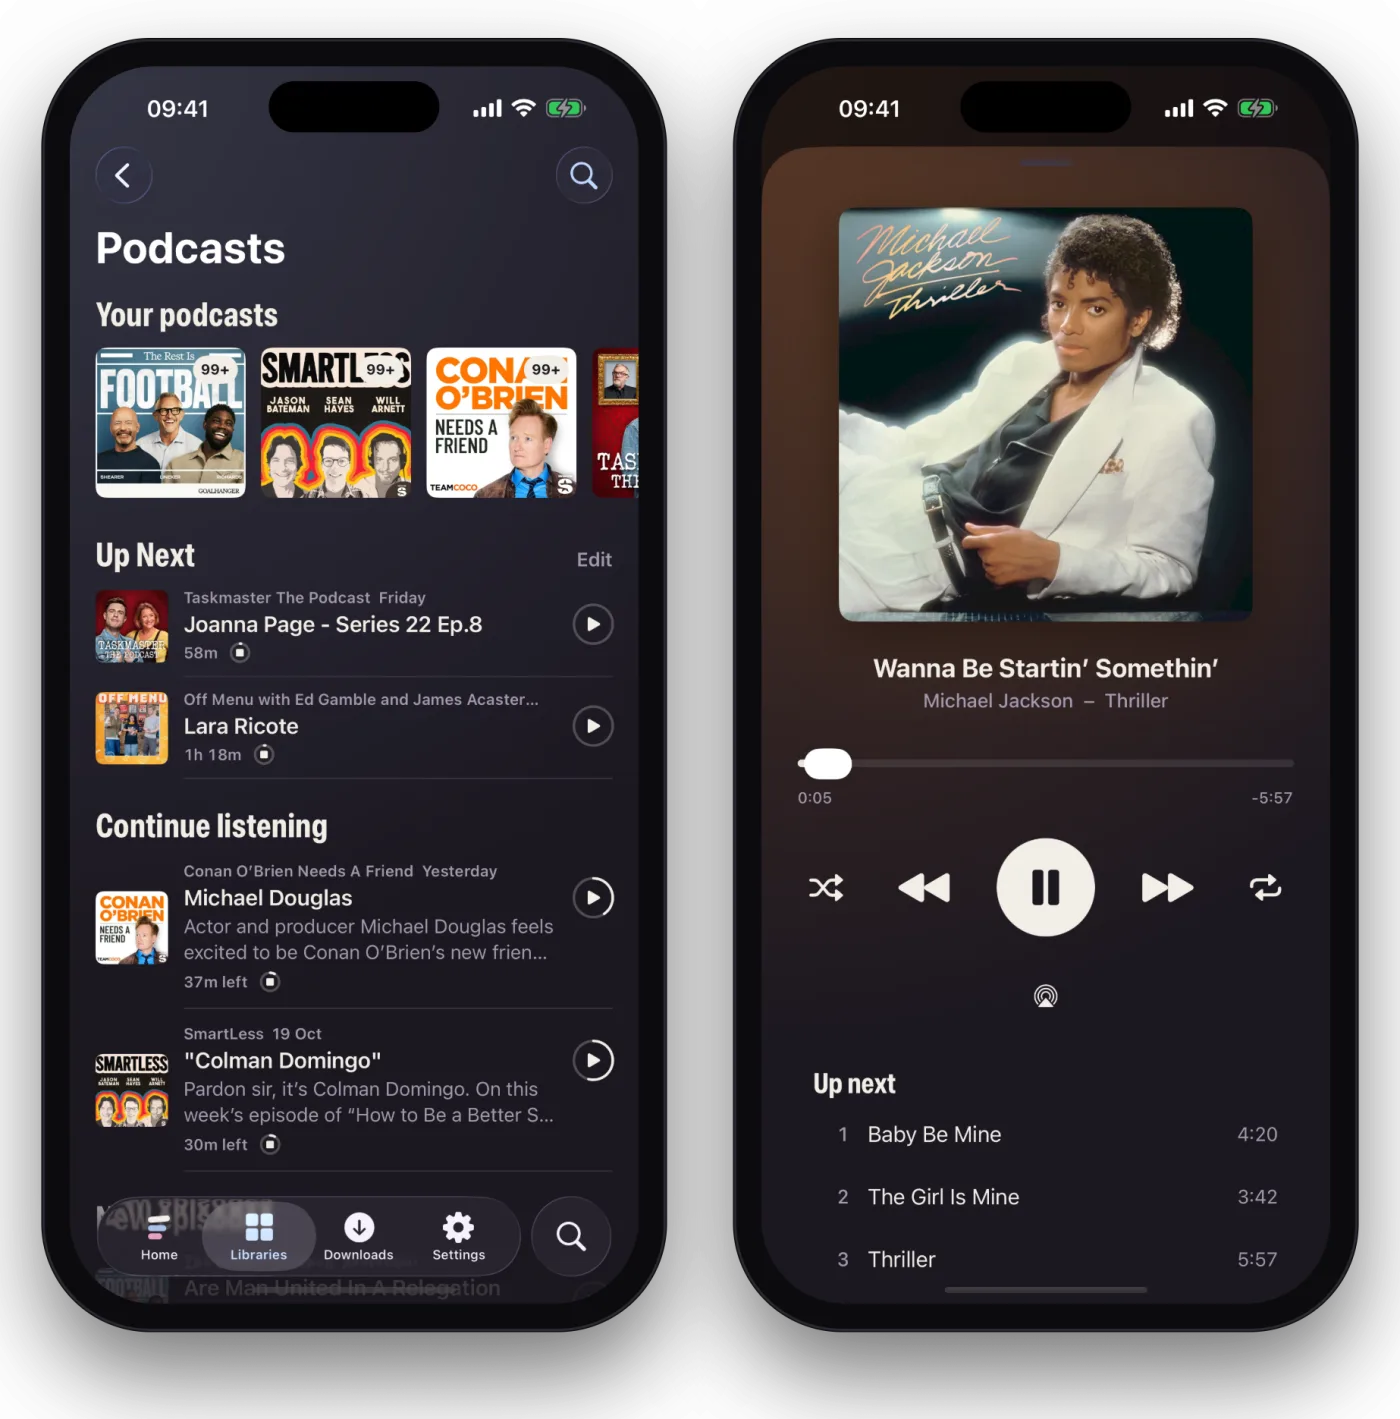
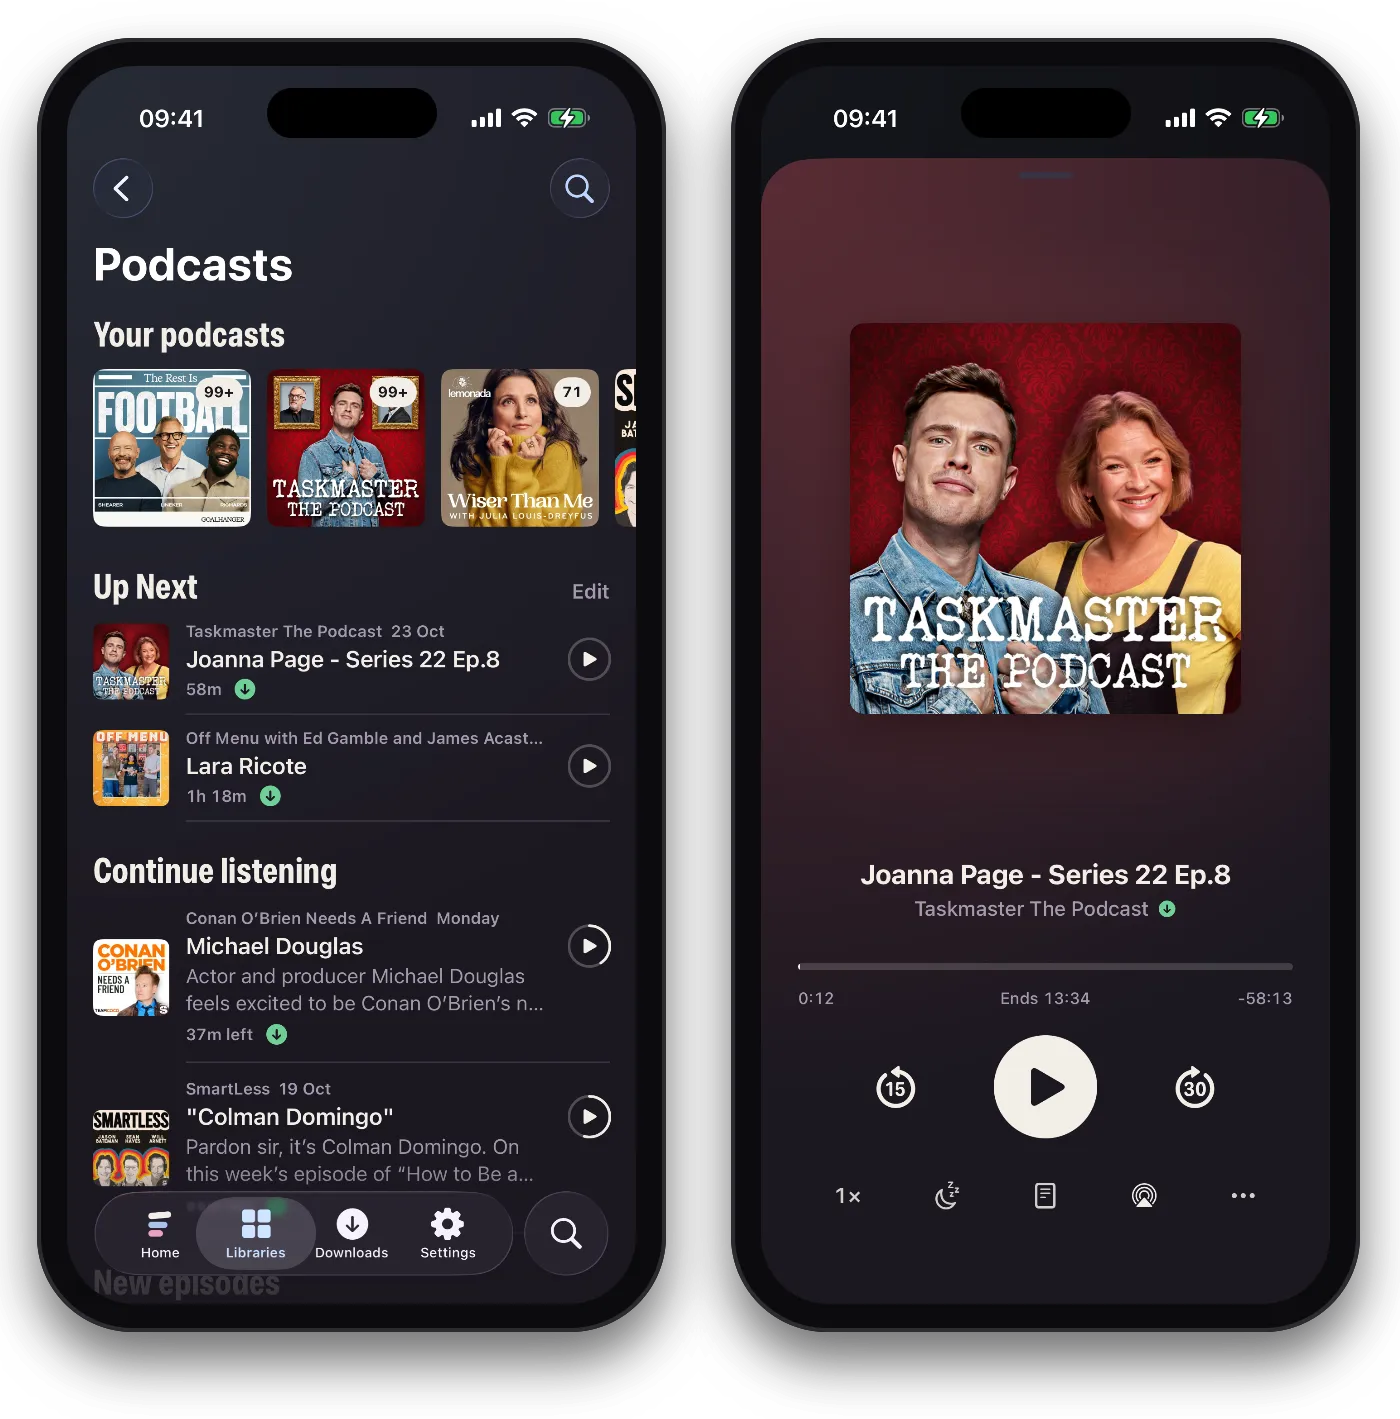
guide: seventeen screenshots retaken from the current apps
Claude-Session: https://claude.ai/code/session_014wqedgp7jjKZkQdPDwN33C

diff --git a/site/guide/first-setup.html b/site/guide/first-setup.html
@@ -153,7 +153,7 @@
 <p>Opened without the link, the page asks for the code and says where it is for your kind of install. Pasting the whole link into the <strong>Setup code</strong> box works too.</p>
 <p>Then choose the <strong>admin PIN</strong> (4 to 8 digits, typed twice). It protects the server&#39;s settings: watching doesn&#39;t need it; changing settings does. Choose <strong>Set up Flexarr</strong>. This browser becomes the server&#39;s owner and is signed in. That&#39;s the whole sign-up.</p>
 <p>If you close the page before choosing <strong>Set up Flexarr</strong>, nothing has happened yet, and the same code still works. The code stops working once the server is set up, and after ten wrong tries it&#39;s replaced with a new one (the log says so).</p>
-<figure><img src="/guide/img/welcome.webp" alt="The welcome panel on a new server, asking for its setup code beside a Set up Flexarr button" data-caption="What a new server shows a browser on your home network" loading="lazy" decoding="async"></figure>
+<figure><img src="/guide/img/welcome.webp" alt="The welcome panel on a new server, asking for its setup code and a PIN, typed twice, beside Set up Flexarr" data-caption="What a new server shows a browser on your home network" loading="lazy" decoding="async"></figure>
 <p>A few things to know:</p>
 <ul>
 <li><strong>It only works once.</strong> As soon as anyone signs in, setup closes for good. Phones, tablets and TVs then connect with a code that you allow from your phone or this browser (see <a href="/guide/connect-devices">Connect your devices</a>). Other browsers sign in with the <a href="#the-api-key">API key</a>.</li>
@@ -177,7 +177,7 @@
 <p>You&#39;re signed in as the server&#39;s <strong>main profile</strong>, the one that can change settings.</p>
 <h2 id="add-your-libraries"><a class="anchor" href="#add-your-libraries" aria-hidden="true" tabindex="-1">#</a>Add your libraries</h2>
 <p>A library is a set of folders holding one kind of media. Go to <strong>Settings › Libraries</strong> and choose <strong>Add library</strong>.</p>
-<figure><img src="/guide/img/libraries.webp" alt="Settings › Libraries with four libraries, each with its folder, and the podcast episodes folder below" data-caption="Settings › Libraries" loading="lazy" decoding="async"></figure>
+<figure><img src="/guide/img/libraries.webp" alt="Settings › Libraries listing each library with its folder and a Fine for kids switch" data-caption="Settings › Libraries" loading="lazy" decoding="async"></figure>
 <ol>
 <li>Pick the <strong>Kind</strong>: <strong>Films</strong>, <strong>TV shows</strong>, <strong>Music</strong>, <strong>Home videos</strong> (videos of your own, arranged by folder; see <a href="/guide/without-arrs#home-videos">Without Sonarr and Radarr</a>) or, in the next release, <strong>Audiobooks</strong> (see <a href="/guide/audiobooks">Audiobooks</a>).</li>
 <li>Give it a <strong>Name</strong> if you like. Left blank, it&#39;s named after its kind. You can rename it later.</li>

diff --git a/site/guide/subtitles-and-skipping.html b/site/guide/subtitles-and-skipping.html
@@ -171,7 +171,7 @@ Heat (1995).en.forced.srt
 <h3 id="timing"><a class="anchor" href="#timing" aria-hidden="true" tabindex="-1">#</a>Timing</h3>
 <p>If subtitles come too early or too late, choose <strong>Timing</strong> in the player&#39;s subtitles menu and move them to match the speech: a quarter of a second at a time on the web, or from half a second to two seconds on Apple TV, iPhone and iPad. Each film or episode remembers its own timing.</p>
 <p>On Apple devices, <strong>Timing</strong> isn&#39;t offered for a download, for subtitles burned into the picture, or when <strong>Play files directly</strong> is on and the file plays as it is. For the last of these, turning <strong>Play files directly</strong> off brings <strong>Timing</strong> back.</p>
-<figure><img src="/guide/img/tv-player.webp" alt="The Apple TV player paused, with skip buttons, the progress bar, and subtitle and audio buttons at the bottom right" data-caption="The Apple TV player, with subtitles and audio at the bottom right" loading="lazy" decoding="async" class="device"></figure>
+<figure><img src="/guide/img/tv-player.webp" alt="The Apple TV player paused, with the Audio, subtitles, sleep timer and speakers buttons above the progress bar" data-caption="The Apple TV player, with subtitles and audio at the bottom right" loading="lazy" decoding="async" class="device"></figure>
 <h2 id="skipping-intros-recaps-and-credits"><a class="anchor" href="#skipping-intros-recaps-and-credits" aria-hidden="true" tabindex="-1">#</a>Skipping intros, recaps and credits</h2>
 <h3 id="how-flexarr-finds-them"><a class="anchor" href="#how-flexarr-finds-them" aria-hidden="true" tabindex="-1">#</a>How Flexarr finds them</h3>
 <p>Flexarr looks for intros, recaps and credits in two ways:</p>

diff --git a/site/guide/music.html b/site/guide/music.html
@@ -147,7 +147,7 @@
 <h2 id="now-playing-on-apple-tv"><a class="anchor" href="#now-playing-on-apple-tv" aria-hidden="true" tabindex="-1">#</a>Now Playing on Apple TV</h2>
 <p>While music plays, a <strong>Now Playing</strong> entry appears in the sidebar, with the cover, controls and the queue, and a bar along the bottom of the screen that goes away a few seconds after the music is paused. Play/pause on the remote works from anywhere in the app. <strong>Stop</strong> ends the music and takes the bar and Now Playing away until you play something else.</p>
 <p>Behind Now Playing, light in the cover&#39;s colours moves in time with the music. Turn it off with <strong>Settings › Playback › Music visualiser</strong>.</p>
-<figure><img src="/guide/img/tv-now-playing.webp" alt="Thriller playing on Apple TV, with the album art and the track list" data-caption="Music on Apple TV" loading="lazy" decoding="async" class="device"></figure>
+<figure><img src="/guide/img/tv-now-playing.webp" alt="Thriller in Now Playing on Apple TV, with the visualiser&#39;s light behind it, the controls and Up next" data-caption="Music on Apple TV" loading="lazy" decoding="async" class="device"></figure>
 <h2 id="on-iphone-and-ipad"><a class="anchor" href="#on-iphone-and-ipad" aria-hidden="true" tabindex="-1">#</a>On iPhone and iPad</h2>
 <p>A mini-player sits above the tab bar. Tap it for the full Now Playing sheet, with the cover, scrubber, controls, queue and AirPlay. The lock screen, Control Center and a paired Apple Watch control playback too.</p>
 <h2 id="playlists"><a class="anchor" href="#playlists" aria-hidden="true" tabindex="-1">#</a>Playlists</h2>

diff --git a/site/guide/downloads.html b/site/guide/downloads.html
@@ -144,7 +144,7 @@
 </ul>
 <p>Tap the button while a download is under way, or once it&#39;s here, to remove it. Downloads carry on with the app closed, and pick up where they left off if the connection drops or the phone locks.</p>
 <p>Everything you&#39;ve downloaded is in the <strong>Downloads</strong> tab, where it plays with Skip Intro and the countdown to the next episode as usual.</p>
-<figure><img src="/guide/img/phones-downloads.webp" alt="The Downloads tab on an iPhone with Ted Lasso episodes, an album and podcast episodes, beside a show page with its Download button" data-caption="Downloads on iPhone" loading="lazy" decoding="async" class="device"></figure>
+<figure><img src="/guide/img/phones-downloads.webp" alt="The Downloads tab on an iPhone with podcast episodes marked by green arrows, beside Ted Lasso&#39;s page with Resume and round buttons" data-caption="Downloads on iPhone" loading="lazy" decoding="async" class="device"></figure>
 <h2 id="what-your-server-does-first"><a class="anchor" href="#what-your-server-does-first" aria-hidden="true" tabindex="-1">#</a>What your server does first</h2>
 <p>Your server gets each download ready before it&#39;s sent, one at a time. It converts a film or episode to a size and format the phone plays, or sends it as it is when it can. It does this quietly in the background and waits while anyone is watching something that&#39;s being converted, so a download never slows someone&#39;s film down.</p>
 <p>A prepared download that isn&#39;t collected within a week is deleted from the server.</p>

diff --git a/site/guide/library-health.html b/site/guide/library-health.html
@@ -135,7 +135,7 @@
         <div class="prose">
 <p>Library health is a check-up for your films and TV. It shows what&#39;s wrong, how much space spare copies take, and a button to fix each problem, usually by asking Sonarr or Radarr to do the work.</p>
 <p>Open it in the web app from <strong>Settings › Libraries › Library health</strong>, as the main profile with settings unlocked. The <strong>Overview</strong> page in Settings links to it too.</p>
-<figure><img src="/guide/img/health.webp" alt="Library health with a score of 99, the health check and a film that only exists in standard definition" data-caption="Settings › Libraries › Library health" loading="lazy" decoding="async"></figure>
+<figure><img src="/guide/img/health.webp" alt="Library health with a score of 99, Run health check, a film that only exists in standard definition and one missing artwork" data-caption="Settings › Libraries › Library health" loading="lazy" decoding="async"></figure>
 <h2 id="the-health-score"><a class="anchor" href="#the-health-score" aria-hidden="true" tabindex="-1">#</a>The health score</h2>
 <p>At the top is a score out of 100: the share of your films and episodes with nothing wrong. Next to it is a breakdown of what&#39;s affecting the rest, such as spare copies, unreadable files or missing artwork.</p>
 <p>Groups with nothing in them are left out, and a line underneath says what&#39;s all clear (&quot;every title has a single copy&quot;, &quot;every film has an HD copy&quot;).</p>

diff --git a/site/guide/away-from-home.html b/site/guide/away-from-home.html
@@ -139,7 +139,7 @@
 <li><strong>On your iPhone or iPad</strong>, install Tailscale from the App Store and sign in with the same account. Leave it connected.</li>
 <li>Open the Flexarr app once while you&#39;re at home, so it learns the private address.</li>
 </ol>
-<figure><img src="/guide/img/access.webp" alt="Settings › Remote access with Tailscale on, the private address and its Copy button, and the people on the tailnet" data-caption="Settings › Remote access, with Tailscale on" loading="lazy" decoding="async"></figure>
+<figure><img src="/guide/img/access.webp" alt="Settings › Remote access with Tailscale on, its private address and Copy button, and People with their own Tailscale" data-caption="Settings › Remote access, with Tailscale on" loading="lazy" decoding="async"></figure>
 <p>From then on, the iPhone, iPad and Apple TV apps switch by themselves. When the home address doesn&#39;t answer, they use the Tailscale one, and they go back to the home address when you&#39;re home again. There&#39;s nothing to change in the apps.</p>
 <p>In a browser away from home, open the private address instead of the usual one.</p>
 <blockquote class="callout note"><p><strong>Note</strong> The Mac app (coming to the Mac App Store) can&#39;t turn Tailscale on. Install Tailscale on that Mac and sign in, and <strong>Settings › Remote access</strong> shows the Mac&#39;s own Tailscale address to use.</p>

diff --git a/site/guide/logs-and-diagnostics.html b/site/guide/logs-and-diagnostics.html
@@ -142,7 +142,7 @@
 <li><strong>Live</strong>: turn it on to watch new entries arrive as they happen. It&#39;s handy while you reproduce a problem.</li>
 </ul>
 <p><strong>Load older</strong> at the bottom goes further back.</p>
-<figure><img src="/guide/img/logs.webp" alt="The Logs page with error reports switched on, the level, area and search filters, and recent log lines" data-caption="Settings › Logs" loading="lazy" decoding="async"></figure>
+<figure><img src="/guide/img/logs.webp" alt="The Logs page with error reports switched on, and the log filtered to the Playback area" data-caption="Settings › Logs" loading="lazy" decoding="async"></figure>
 <h2 id="following-one-playback"><a class="anchor" href="#following-one-playback" aria-hidden="true" tabindex="-1">#</a>Following one playback</h2>
 <p>Every time something starts playing it gets a short id, such as <code>3f9a1c07</code>. The server&#39;s lines about that playback show it as <code>#3f9a1c07</code>, and the Apple TV, iPhone and iPad apps attach the same id to what they report. Open an entry and select its <code>playbackId</code> to see only that playback: the whole story, from the server and the device, from start to finish.</p>
 <h2 id="turning-up-the-detail"><a class="anchor" href="#turning-up-the-detail" aria-hidden="true" tabindex="-1">#</a>Turning up the detail</h2>

diff --git a/site/guide/backups.html b/site/guide/backups.html
@@ -133,7 +133,7 @@
         <div class="prose">
 <p>Your films, shows and music live on your own drives, and Flexarr can always scan them again. What it can&#39;t rebuild is everything you&#39;ve added on top: profiles, what everyone has watched, watchlists, playlists, collections, settings and signed-in devices. That&#39;s what a backup holds.</p>
 <p>Everything here is in the web app under <strong>Settings › Backup and restore</strong>, as the main profile with settings unlocked.</p>
-<figure><img src="/guide/img/backups.webp" alt="Settings › Backup and restore, listing two backups with download, restore and delete buttons, and the nightly backup switch" data-caption="Settings › Backup and restore" loading="lazy" decoding="async"></figure>
+<figure><img src="/guide/img/backups.webp" alt="Settings › Backup and restore with Back up now and a list of nightly and before-upgrade backups, each with download, restore and delete" data-caption="Settings › Backup and restore" loading="lazy" decoding="async"></figure>
 <h2 id="what-s-in-a-backup"><a class="anchor" href="#what-s-in-a-backup" aria-hidden="true" tabindex="-1">#</a>What&#39;s in a backup</h2>
 <ul>
 <li>Profiles, with their PINs and pictures, and the admin PIN</li>

diff --git a/site/guide/podcasts.html b/site/guide/podcasts.html
@@ -136,7 +136,7 @@
 <p>Podcasts are built into Flexarr. There&#39;s no library to add and nothing to set up: they sit with your libraries, and each profile follows its own shows. They&#39;re on the web, iPhone and iPad. They aren&#39;t on the Apple TV, and kids profiles don&#39;t have them.</p>
 <h2 id="finding-shows"><a class="anchor" href="#finding-shows" aria-hidden="true" tabindex="-1">#</a>Finding shows</h2>
 <p>Open <strong>Podcasts</strong> and choose <strong>Browse</strong>.</p>
-<figure><img src="/guide/img/phones-podcasts.webp" alt="The Podcasts screen with followed shows, Up Next and Continue listening, beside the now playing screen" data-caption="Podcasts and the player on iPhone" loading="lazy" decoding="async" class="device"></figure>
+<figure><img src="/guide/img/phones-podcasts.webp" alt="The Podcasts screen with your podcasts, Up Next and Continue listening, beside a podcast&#39;s Now Playing with its end time" data-caption="Podcasts and the player on iPhone" loading="lazy" decoding="async" class="device"></figure>
 <ul>
 <li><strong>Top charts</strong>, by category, come from Apple&#39;s podcast directory.</li>
 <li><strong>Search</strong> finds any show in that directory.</li>

diff --git a/site/guide/connect-arrs.html b/site/guide/connect-arrs.html
@@ -177,7 +177,7 @@
 <p>Films and shows that Radarr or Sonarr don&#39;t manage are still looked up through their search, so a connected Radarr fills in artwork even for films it didn&#39;t download.</p>
 <h2 id="add-a-connection"><a class="anchor" href="#add-a-connection" aria-hidden="true" tabindex="-1">#</a>Add a connection</h2>
 <p>You need two things for each app: its <strong>address</strong> and its <strong>API key</strong>.</p>
-<figure><img src="/guide/img/connections.webp" alt="Settings › Connections listing Sonarr, Radarr, Lidarr, Seerr and Dispatcharr, all connected, with their media folders below" data-caption="Settings › Connections" loading="lazy" decoding="async"></figure>
+<figure><img src="/guide/img/connections.webp" alt="Settings › Connections with Sonarr, Radarr, Lidarr, Readarr, Seerr and Bazarr connected, and TMDB and Trakt below" data-caption="Settings › Connections" loading="lazy" decoding="async"></figure>
 <ol>
 <li>In Flexarr, go to <strong>Settings › Connections</strong>.</li>
 <li>Every app Flexarr works with is listed under <strong>Apps &amp; Integrations</strong>. Find the one you want and choose <strong>Connect</strong>.</li>

diff --git a/site/guide/hdr-and-atmos.html b/site/guide/hdr-and-atmos.html
@@ -145,7 +145,7 @@
 </blockquote>
 <h2 id="hdr-what-reaches-your-tv"><a class="anchor" href="#hdr-what-reaches-your-tv" aria-hidden="true" tabindex="-1">#</a>HDR: what reaches your TV</h2>
 <p>With <strong>Play files directly</strong> on (the default on Apple TV, iPhone and iPad), the Apple TV plays the file itself. HDR10, HLG and Dolby Vision reach the television untouched.</p>
-<figure><img src="/guide/img/tv-movie.webp" alt="Barbie&#39;s page on Apple TV, showing 1080p, its genres and the Play button" data-caption="A film&#39;s page on Apple TV" loading="lazy" decoding="async" class="device"></figure>
+<figure><img src="/guide/img/tv-movie.webp" alt="Dredd&#39;s page on Apple TV, showing 4K, with Play and round Watched, Watchlist and ⋯ buttons" data-caption="A film&#39;s page on Apple TV" loading="lazy" decoding="async" class="device"></figure>
 <p>With <strong>Play files directly</strong> off, the server <a href="/guide/playback-and-transcoding">repackages</a> the original picture into a stream without re-encoding it. Here&#39;s what the television gets:</p>
 <div class="table"><table>
 <thead>

diff --git a/site/guide/connect-devices.html b/site/guide/connect-devices.html
@@ -149,7 +149,7 @@
 </ol>
 <p>The app moves on by itself a moment later. If your household has several profiles, it asks who&#39;s watching.</p>
 <p>If Safari on the same phone is already signed in to Flexarr, <strong>Approve in Safari instead</strong> opens the approval page there, so you don&#39;t need the computer.</p>
-<figure><img src="/guide/img/connect-device.webp" alt="The Connect a device page with a box for the code shown on the TV, iPhone or iPad" data-caption="Settings › Security › Connect a device, where you type the code" loading="lazy" decoding="async"></figure>
+<figure><img src="/guide/img/connect-device.webp" alt="Settings › Security › Connect a device, with devices waiting to connect and a box for the code" data-caption="Settings › Security › Connect a device, where you type the code" loading="lazy" decoding="async"></figure>
 <h2 id="apple-tv"><a class="anchor" href="#apple-tv" aria-hidden="true" tabindex="-1">#</a>Apple TV</h2>
 <p>The Apple TV app isn&#39;t on the App Store yet. Until it is, <a href="/guide/apple-tv-xcode">install it with Xcode</a>.</p>
 <ol>
